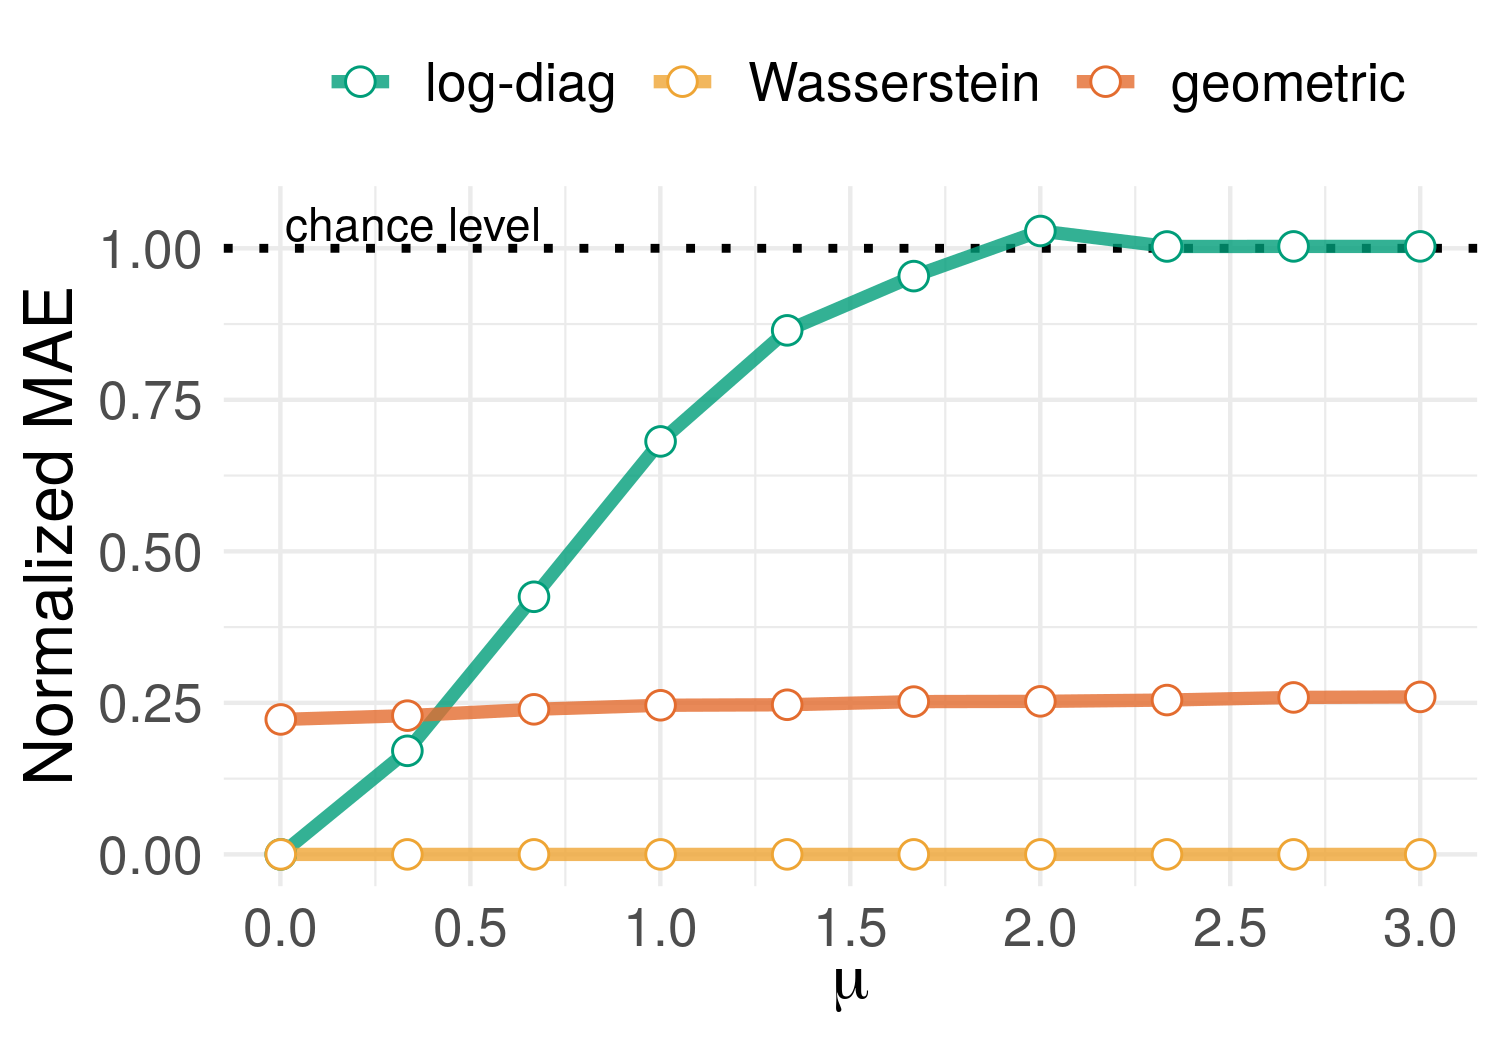
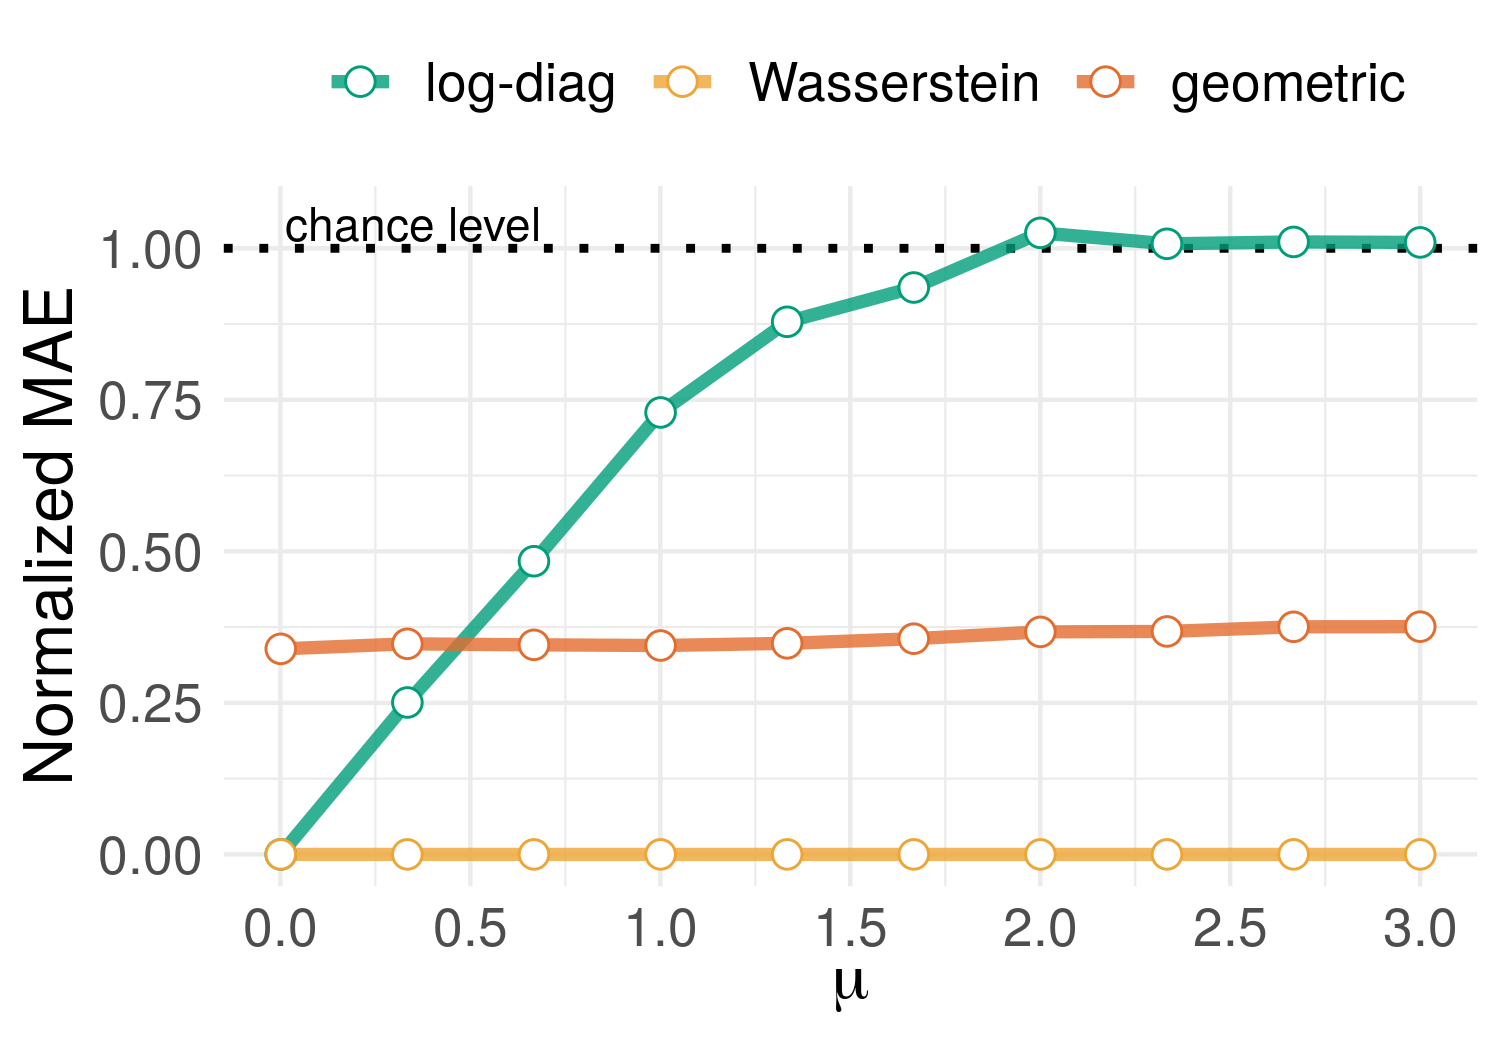
fixed bug on simuls

Changed region(s): [[0.184, 0.2133, 0.9507, 0.8229], [0.736, 0.2133, 0.9813, 0.2438]]

diff --git a/nips_simuls_compute_individual_A_loglinearpower.py b/nips_simuls_compute_individual_A_loglinearpower.py
@@ -20,13 +20,12 @@ print('Running individual A experiment...')
 n_matrices = 100  # Number of matrices
 n_channels = 5   # Number of channels
 n_sources = 2  # Number of sources
-distance_A_id = 0.5
+distance_A_id = 1.0  # Parameter 'mu': distance from A to Id
 f_powers = 'log'  # link function between the y and the source powers
 direction_A = None  # random direction_A
-rng = 5
+rng = 4
 sigma = 0.  # Noise level in y
-noises = np.logspace(-2.5, -.2, 10)  # noise in Ai
-
+noises_A = np.logspace(-2.5, -.2, 10)  # noise in Ai
 scoring = 'neg_mean_absolute_error'
 
 # define spatial filters
@@ -54,9 +53,9 @@ pipelines = {
     'supgeom': make_pipeline(spoc, geom, sc, ridge)
 }
 
-# Run experiments
-results = np.zeros((len(pipelines), len(noises)))
-for j, noise_A in enumerate(noises):
+# Run simulation
+results = np.zeros((len(pipelines), len(noises_A)))
+for j, noise_A in enumerate(noises_A):
     X, y = generate_covariances(n_matrices, n_channels, n_sources,
                                 sigma=sigma, distance_A_id=distance_A_id,
                                 f_p=f_powers, direction_A=direction_A,
@@ -77,25 +76,22 @@ np.savetxt(op.join(cfg.path_outputs,
            np.array(list(pipelines)), fmt='%s')
 np.savetxt(op.join(cfg.path_outputs,
            'simuls_nips/individual_spatial/noises_A.csv'),
-           noises)
+           noises_A)
 
 # draft plot
 f, ax = plt.subplots(figsize=(4, 3))
 results /= results[0]
 for i, name in enumerate(list(pipelines)):
-    if name != 'Chance level':
-        ls = None
-    else:
-        ls = '--'
-    ax.plot(noises, results[i],
+    ax.plot(noises_A, results[i],
             label=name,
             linewidth=3,
             linestyle='--' if name == 'dummy' else None)
 ax.set_xlabel('individual noise')
+ax.set_xscale('log')
 plt.grid()
 ax.set_ylabel('Normalized M.A.E.')
-ax.hlines(0, noises[0], noises[-1], label=r'Perfect',
+ax.hlines(0, noises_A[0], noises_A[-1], label=r'Perfect',
           color='k', linestyle='--', linewidth=3)
 ax.legend(loc='lower right')
-ax.set_xscale('log')
+f.tight_layout
 plt.show()

diff --git a/nips_simuls_compute_snr_loglinearpower.py b/nips_simuls_compute_snr_loglinearpower.py
@@ -20,20 +20,18 @@ print('Running SNR experiment...')
 n_matrices = 100  # Number of matrices
 n_channels = 5   # Number of channels
 n_sources = 2  # Number of sources
-distance_A_id = .3  # Parameter 'mu': distance from A to Id
+distance_A_id = 1.0  # Parameter 'mu': distance from A to Id
 f_powers = 'log'  # link function between the y and the source powers
 direction_A = None  # random direction_A
 rng = 4
-sigmas = np.logspace(-2, 1, 10)  # noise level in y
+sigmas = np.logspace(-2, 1.4, 10)  # noise level in y
+noise_A = 0.
 scoring = 'neg_mean_absolute_error'
 
 # define spatial filters
 identity = ProjIdentitySpace()
-#  spoc = ProjSPoCSpace(n_compo=n_channels, scale='auto', reg=0, shrink=0)
 
 # define featuring
-#  upper = NaiveVec(method='upper')
-#  diag = Diag()
 logdiag = LogDiag()
 geom = Riemann(n_fb=1, metric='riemann')
 wass = RiemannSnp(n_fb=1, rank=n_channels)
@@ -43,7 +41,6 @@ sc = StandardScaler()
 # define algo
 dummy = DummyRegressor()
 ridge = RidgeCV(alphas=np.logspace(-7, 3, 100), scoring=scoring)
-#  ridge = RidgeCV(alphas=np.logspace(-3, 5, 100), scoring=scoring)
 
 # define models
 pipelines = {
@@ -59,7 +56,7 @@ for j, sigma in enumerate(sigmas):
     X, y = generate_covariances(n_matrices, n_channels, n_sources,
                                 sigma=sigma, distance_A_id=distance_A_id,
                                 f_p=f_powers, direction_A=direction_A,
-                                rng=rng)
+                                noise_A=noise_A, rng=rng)
     X = X[:, None, :, :]
     for i, (name, pipeline) in enumerate(pipelines.items()):
         print('sigma = {}, {} method'.format(sigma, name))

diff --git a/nips_simuls_compute_distance_loglinearpower.py b/nips_simuls_compute_distance_loglinearpower.py
@@ -20,13 +20,12 @@ print('Running distance experiment...')
 n_matrices = 100  # Number of matrices
 n_channels = 5   # Number of channels
 n_sources = 2  # Number of sources
-sigma = 0  # .31  Noise level in y
+distances = np.linspace(0.001, 3, 10)  # Parameter 'mu': distance from A to Id
 f_powers = 'log'  # link function between the y and the source powers
-# Direction for the change in A
-direction_A = np.random.RandomState(4).randn(n_channels, n_channels)
-direction_A /= np.linalg.norm(direction_A)
-rng = 5
-distances = np.linspace(0.001, 3, 10)
+direction_A = None  # random direction_1
+rng = 4
+sigma = 0.  # Noise level in y
+noise_A = 0.
 scoring = 'neg_mean_absolute_error'
 
 # define spatial filters
@@ -51,13 +50,13 @@ pipelines = {
     'wass': make_pipeline(identity, wass, sc, ridge)
 }
 
-# Run experiments
+# Run simulation
 results = np.zeros((len(pipelines), len(distances)))
 for j, distance_A_id in enumerate(distances):
     X, y = generate_covariances(n_matrices, n_channels, n_sources,
                                 sigma=sigma, distance_A_id=distance_A_id,
                                 f_p=f_powers, direction_A=direction_A,
-                                rng=rng)
+                                noise_A=noise_A, rng=rng)
     X = X[:, None, :, :]
     for i, (name, pipeline) in enumerate(pipelines.items()):
         print('distance = {}, {} method'.format(distance_A_id, name))

diff --git a/library/simuls.py b/library/simuls.py
@@ -7,18 +7,18 @@ from sklearn.utils import check_random_state
 
 def generate_covariances(n_matrices, n_channels, n_sources, rank=None,
                          distance_A_id=0., direction_A=None,
-                         distance_projs=0., sigma=0,
+                         distance_projs=0., sigma=0.,
                          noise_A=0., f_p='log', rng=0):
     rng = check_random_state(rng)
     project = rank is not None
     # Generate A close from id
     if direction_A is None:
         direction_A = rng.randn(n_channels, n_channels)
+        direction_A /= np.linalg.norm(direction_A)
     A = expm(distance_A_id * direction_A)
     # Add individual noise
-    if noise_A != 0.:
-        A_list = [A + noise_A * rng.randn(n_channels, n_channels)
-                  for _ in range(n_matrices)]
+    A_list = [A + noise_A * rng.randn(n_channels, n_channels)
+              for _ in range(n_matrices)]
     # Generate powers
     powers = rng.rand(n_matrices, n_sources)
     # Generate source covariances
